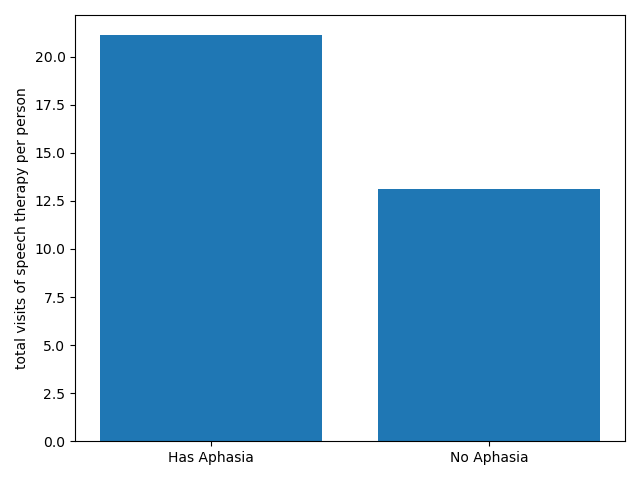
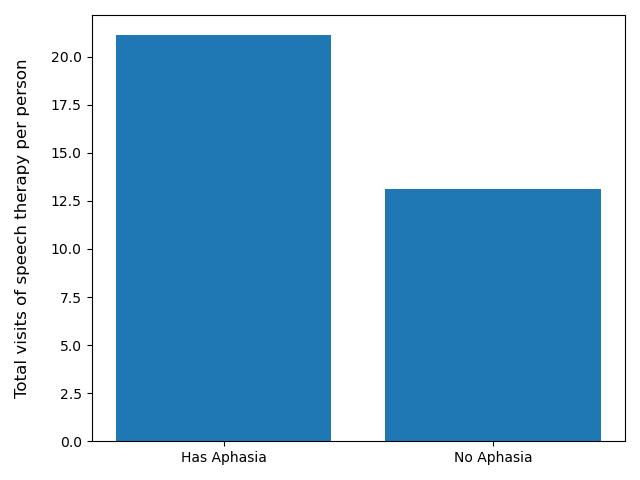
plot 4 partial update

diff --git a/src/plot_speech_therapy_aphasia.py b/src/plot_speech_therapy_aphasia.py
@@ -38,7 +38,7 @@ plt.bar(
         cnt_visit_aphasia_false / cnt_patient_aphasia_false,
     ],
 )
-plt.ylabel("total visits of speech therapy per person")
+plt.ylabel("Total visits of speech therapy per person", fontsize=12, labelpad=15)
 plt.tight_layout()
 plt.savefig("figs/speech_therapy_aphasia.png")
 plt.show()
